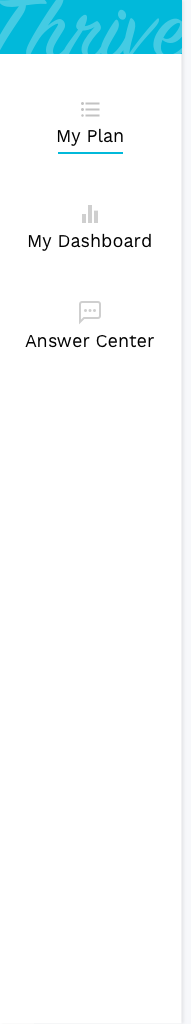
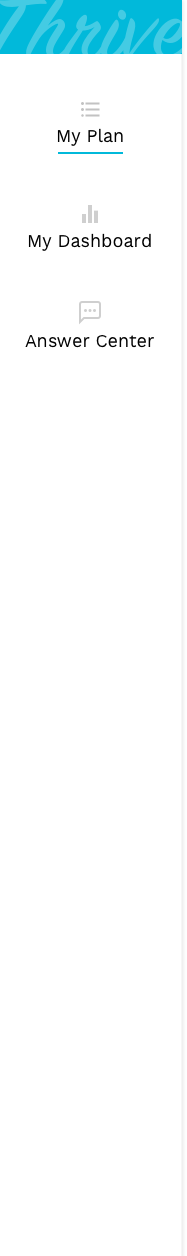
add

Changed region(s): [[0.0, 0.0, 0.9893, 0.3438], [0.1337, 0.1875, 0.2674, 0.2812]]

diff --git a/index.html b/index.html
@@ -37,12 +37,12 @@
 			position: fixed;
 			left: 0;
 			top: 0;
-			background: url(images/navbg.png) left bottom no-repeat;
+			/*background: url(images/navbg.png) left bottom no-repeat;*/
 			height: 100%;
 		}
 
 		.burger {
-			position: fixed;
+			position: absolute;
 			right: 22px;
 			top:16px;
 		}	
@@ -52,10 +52,10 @@
   <body>
   	<div id="centerCol">
 		<img src="images/site.png" alt="" />
+		<img class="burger" src="images/hamburger.png" alt="" />
   	<div>
   	<div id="left_nav">
   		<img src="images/nav.png" alt="" />
-	</div>
-	<img class="burger" src="images/hamburger.png" alt="" />
+	</div>	
   </body>
 </html>
